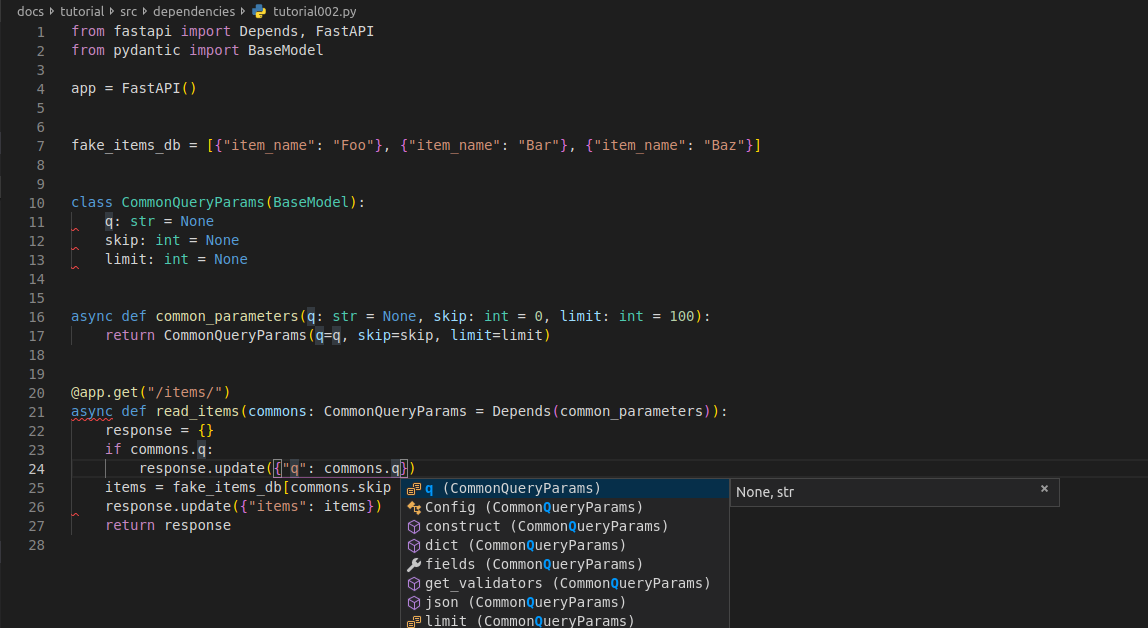
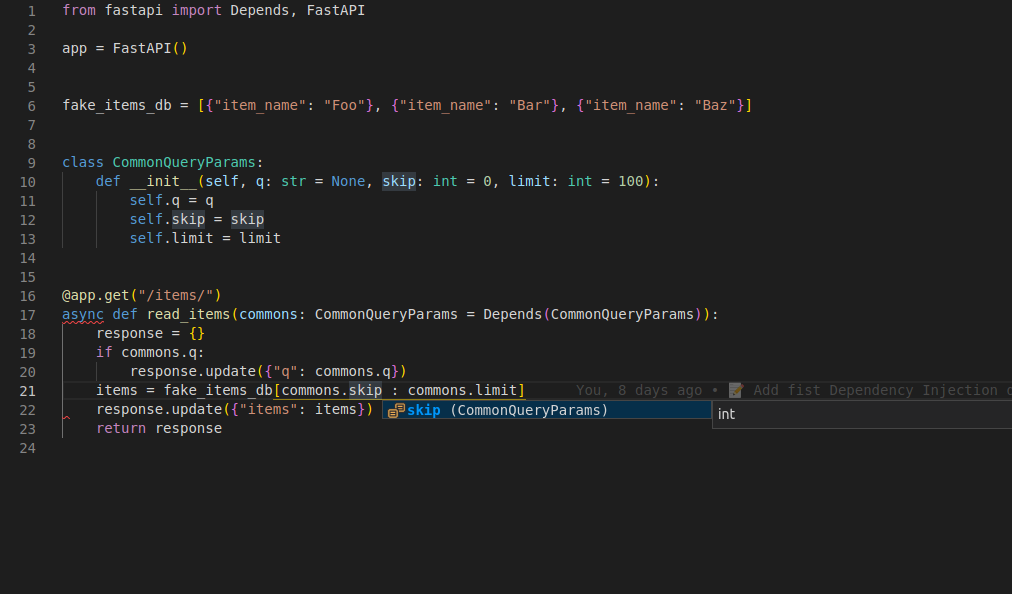
:memo: Add example screenshot for dependencies

diff --git a/docs/tutorial/dependencies/classes-as-dependencies.md b/docs/tutorial/dependencies/classes-as-dependencies.md
@@ -130,12 +130,9 @@ commons = Depends(CommonQueryParams)
 {!./src/dependencies/tutorial003.py!}
 ```
 
-
 But declaring the type is encouraged as that way your editor will know what will be passed as the parameter `commons`, and then it can help you with code completion, type checks, etc:
 
-```Python hl_lines="19 20 21"
-{!./src/dependencies/tutorial002.py!}
-```
+<img src="/img/tutorial/dependencies/image02.png">
 
 ## Shortcut
 